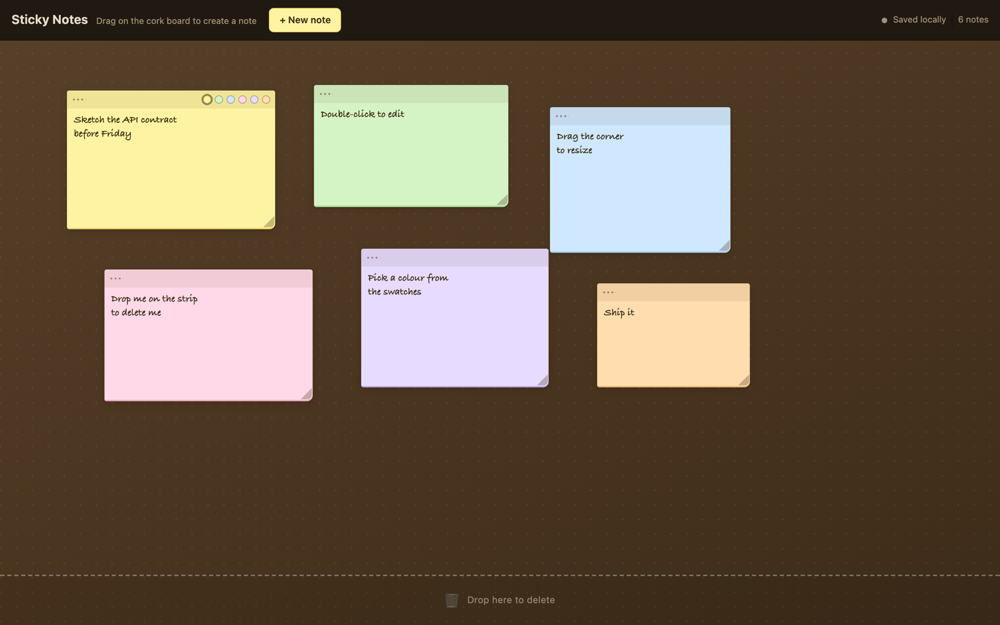
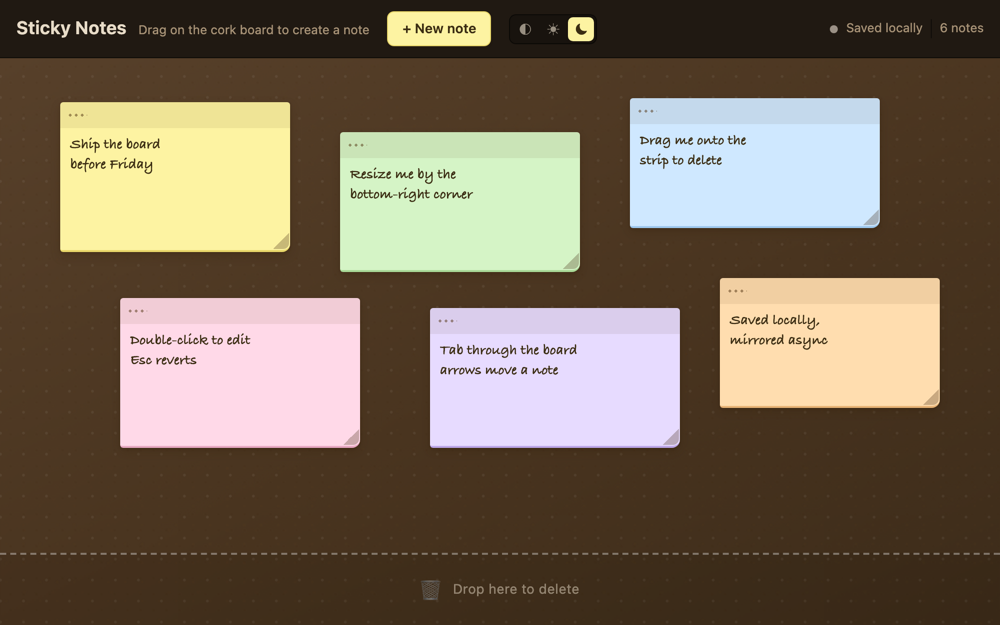
docs(readme): document the theme control and refresh the screenshots
The README still claimed the palette was pure CSS. It now explains the
three-way control, the storage key and the pre-paint script, the counts are
127 unit / 60 browser scenarios, and the two screenshots show the control in
the toolbar (with its own track token so the unselected icons stay readable in
dark mode).

diff --git a/src/index.css b/src/index.css
@@ -7,6 +7,7 @@
   --chrome-text: #4a3826;
   /* 5.1:1 on the translucent toolbar over cork; #8a7358 was 3.98:1. */
   --chrome-muted: #78624a;
+  --toggle-track: rgba(120, 84, 48, 0.1);
 
   --note-yellow: #fdf3a2;
   --note-yellow-edge: #e9d76a;
@@ -44,6 +45,7 @@
   --chrome-border: rgba(0, 0, 0, 0.5);
   --chrome-text: #e8dcc8;
   --chrome-muted: #a89377;
+  --toggle-track: rgba(0, 0, 0, 0.26);
   --note-ink: #3a2c12;
   --trash-faint: rgba(232, 220, 200, 0.5);
   --trash-active: rgba(0, 0, 0, 0.22);
@@ -135,7 +137,7 @@ body {
   gap: 2px;
   padding: 2px;
   border-radius: 7px;
-  background: rgba(120, 84, 48, 0.1);
+  background: var(--toggle-track);
   border: 1px solid var(--chrome-border);
 }
 
@@ -149,9 +151,10 @@ body {
   border: none;
   border-radius: 5px;
   background: transparent;
-  color: var(--chrome-muted);
+  color: var(--chrome-text);
+  opacity: 0.62;
   font-family: var(--ui);
-  font-size: 13px;
+  font-size: 14px;
   line-height: 1;
   cursor: pointer;
 }
@@ -159,6 +162,7 @@ body {
 .theme-toggle__option.is-active {
   background: var(--note-yellow);
   color: var(--note-ink);
+  opacity: 1;
   box-shadow: 0 1px 2px rgba(60, 40, 15, 0.18);
 }
 

diff --git a/README.md b/README.md
@@ -39,8 +39,9 @@ Drag on the cork board to make your first note. Everything else is discoverable 
 
 Also in: **inline text editing** (blur or `⌘`/`Ctrl`+`Enter` saves, `Esc` discards) · **bring to
 front** on press · **localStorage persistence** that survives reloads and refuses to crash on invalid
-or blocked storage · **six pastel colours** · **an async REST mirror** that reports syncing, synced and
-failed, and offers Retry.
+or blocked storage · **six pastel colours** · **a three-way theme control** (system, light, dark) that
+remembers the choice and applies it before the first paint · **an async REST mirror** that reports
+syncing, synced and failed, and offers Retry.
 
 The edge cases are the part worth reviewing: `Esc` cancels a move or resize and restores the exact
 previous geometry, a note dragged over the bin and back out is kept, every note is clamped inside the
@@ -61,6 +62,7 @@ The board is fully operable without a mouse.
 | Recolor | Hover, click a swatch | `Tab` into the palette, arrows to change, `Space`/`Enter` |
 | Delete | Drag onto the strip | `Delete` / `Backspace` (focus moves to the neighbour) |
 | Cancel a gesture | `Esc` | `Esc` |
+| Theme | System · Light · Dark in the toolbar | `Tab` to it, `Enter` |
 
 Notes are focusable groups with a visible ring, an accessible name built from their text, a role
 description and their shortcuts announced. The palette is a real radio group — one tab stop, arrow
@@ -70,7 +72,14 @@ part of the lint gate, not a good intention.
 
 ## Light and dark
 
-The board follows `prefers-color-scheme`; both themes live in the same stylesheet, no JavaScript.
+Three explicit options in the toolbar: **System** follows the OS (and reacts to a live change),
+**Light** and **Dark** override it. The choice is remembered under `sticky-notes-theme-v1`, kept out of
+the board payload so a theme change never triggers a save or a sync.
+
+The palette is resolved in one place — `app/theme.ts` turns a preference plus the system scheme into
+`data-theme="light|dark"` on the document root, and the stylesheet keys two token blocks off that
+attribute instead of duplicating a `prefers-color-scheme` copy. A short inline script in `index.html`
+applies the stored preference before the bundle boots, so a reload never flashes the wrong theme.
 
 | Light | Dark |
 |---|---|
@@ -117,6 +126,7 @@ pointer / keyboard
 | Domain and state | `domain/note.ts`, `app/store.ts` | Pure functions and a reducer: no DOM, no React | 32 unit tests |
 | Geometry and input | `app/boardGeometry.ts`, `hooks/`, `components/Board.tsx` | Measured once per gesture; one engine, three sessions | 11 + 45 tests |
 | Infrastructure | `infra/persistence.ts`, `infra/mockApi.ts` | Storage never throws at the app; the API is an interface | 15 unit tests |
+| Preferences | `app/theme.ts`, `app/useTheme.ts`, `components/ThemeToggle.tsx` | Resolved once, written to the root, read back by the control | 11 + 4 tests |
 | View | `components/`, `index.css` | Renders state, reports intent; no note data in the DOM | 9 tests |
 
 ```
@@ -126,11 +136,14 @@ src/
   app/notesContext.ts         State / dispatch / sync contexts
   app/NotesProvider.tsx       Hydration, debounced persistence, serialised sync, retry
   app/boardGeometry.ts        Measures the board and the strip
+  app/theme.ts                Theme preference: parse, resolve, persist, apply
+  app/useTheme.ts             Hydrates the preference, follows the OS in System mode
   hooks/useDrag.ts            Pointer-capture drag engine
   hooks/useNoteGestures.ts    Create, move and resize as session factories
   components/Board.tsx        Composition: store, undo, focus, keyboard, layout
   components/Note.tsx         Rendering, editing, palette, keyboard map
-  components/Toolbar.tsx      New note, sync status, note count
+  components/Toolbar.tsx      New note, theme control, sync status, note count
+  components/ThemeToggle.tsx  Three-option radiogroup
   components/TrashZone.tsx    The drop strip
   components/ErrorBoundary.tsx  Recoverable screen instead of a blank page
   infra/                      localStorage adapter + REST mock
@@ -142,8 +155,8 @@ openspec/                     Capability specs and the archived change history
 ## Testing
 
 ```bash
-bun run test        # 112 unit and interaction tests (jsdom)
-bun run test:e2e    # 48 browser scenarios: 24 × Chromium and Firefox
+bun run test        # 127 unit and interaction tests (jsdom)
+bun run test:e2e    # 60 browser scenarios: 30 × Chromium and Firefox
 bun run lint        # ESLint: react-hooks, react-refresh, jsx-a11y
 bun run build       # tsc -b (strict) + vite build
 ```
@@ -159,6 +172,8 @@ The browser suite needs its engines once per machine: `bun run test:e2e:install`
 | `hooks/useDrag.test.tsx` | 7 | Deltas, movement outside the element, `Esc`, `pointercancel`, sequential sessions, unmount teardown |
 | `index.css.test.ts` | 7 | PostCSS AST guard: no Sass-only nesting, a background per colour, strip height defined once, `sr-only`, crash screen |
 | `components/board.regressions.test.tsx` | 6 | Escape-then-edit, palette radio group, stacking no-op, focus after delete, viewport clamp |
+| `app/theme.test.ts` | 11 | Preference parsing with fallback, resolution against both schemes, storage that throws, root attributes |
+| `components/theme.test.tsx` | 4 | System default, choice applied and stored, stored choice restored, corrupt value falls back |
 | `app/boardGeometry.test.ts` · `infra/mockApi.test.ts` · `components/ErrorBoundary.test.tsx` | 4 · 3 · 2 | Measured geometry, async mock, crash screen |
 
 The component suite runs through the **React Compiler**, exactly like the production build, so a
@@ -166,8 +181,9 @@ compiler bailout cannot hide until deploy.
 
 `e2e/` builds the app, serves `vite preview` and drives real Chromium and Firefox at 1024×768 with
 genuine pointer and keyboard input — the parts jsdom cannot see: layout, pointer capture, CSS and
-cross-engine behaviour. Selectors are `data-testid`-based and interaction state is read from `data-*`
-attributes, so renaming a style class cannot break the suite. It asserts concrete numbers, so a
+cross-engine behaviour. The theme spec emulates the operating system's scheme, so "system", "override"
+and "live change" are asserted against a real media query, not a stub. Selectors are `data-testid`-based
+and interaction state is read from `data-*` attributes, so renaming a style class cannot break the suite. It asserts concrete numbers, so a
 regression names the value that moved: create → `240×160` at `(120, 150)`, move → `+40/−30`, resize →
 `300×190` with the top-left anchored, keyboard → `64,64 → 80,72`.
 
@@ -188,6 +204,9 @@ regression names the value that moved: create → `240×160` at `(120, 150)`, mo
   instead — a drag re-renders one note, not the board.
 - **An error boundary wraps the app**, so a render throw (a blocked storage accessor, a bad payload)
   shows a recoverable screen instead of a blank page.
+- **The theme is resolved in JavaScript, not in CSS** (`data-theme` on the root plus a pre-paint
+  script). A media query cannot express a three-way preference, and duplicating the dark token block
+  for the system case would encode the precedence rule twice.
 - **Bun** as the toolchain, since the scaffold shipped `bun.lock`. The scripts are plain `vite`,
   `vitest`, `tsc` and `eslint`, so any package manager runs them.
 
